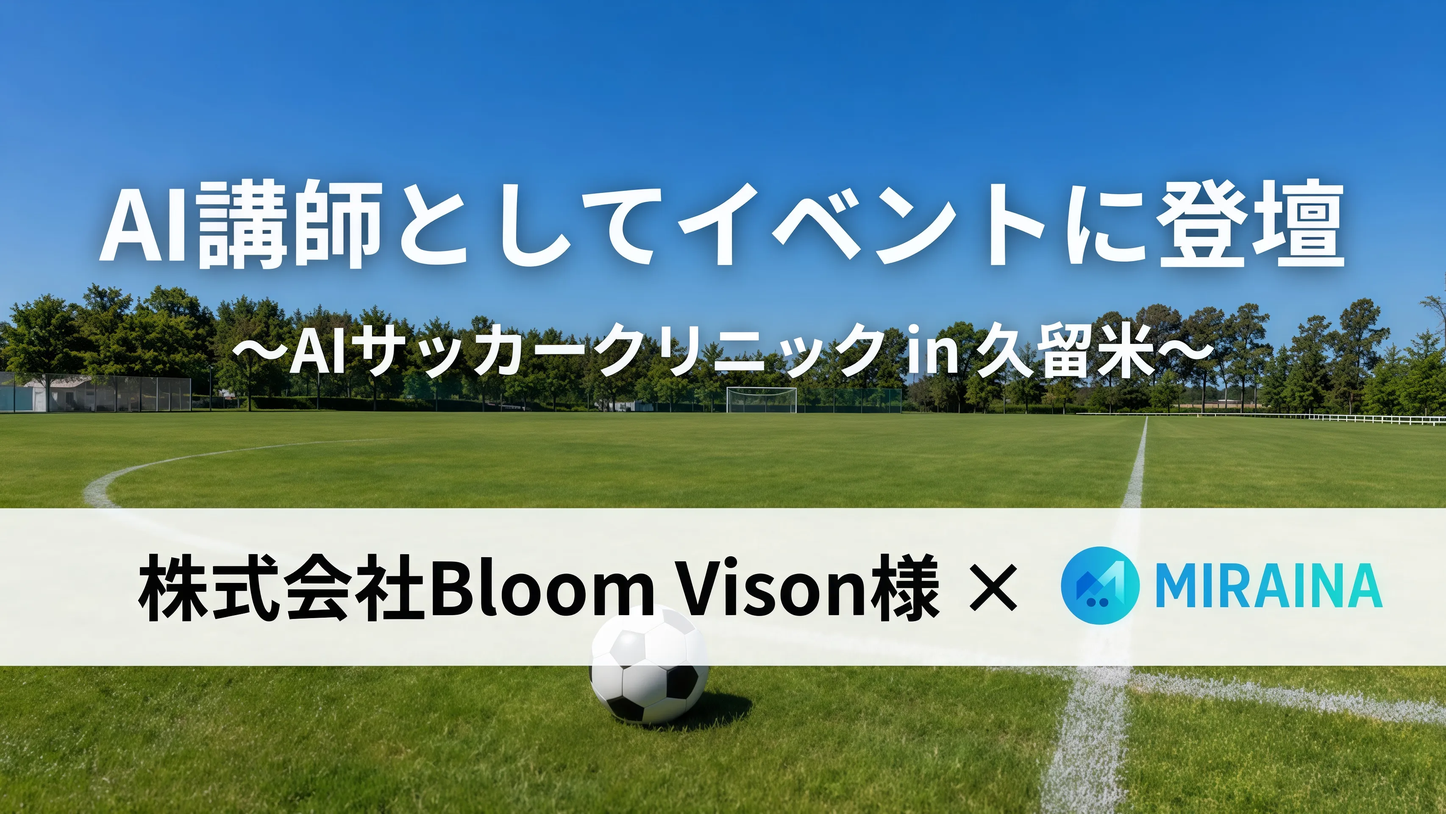
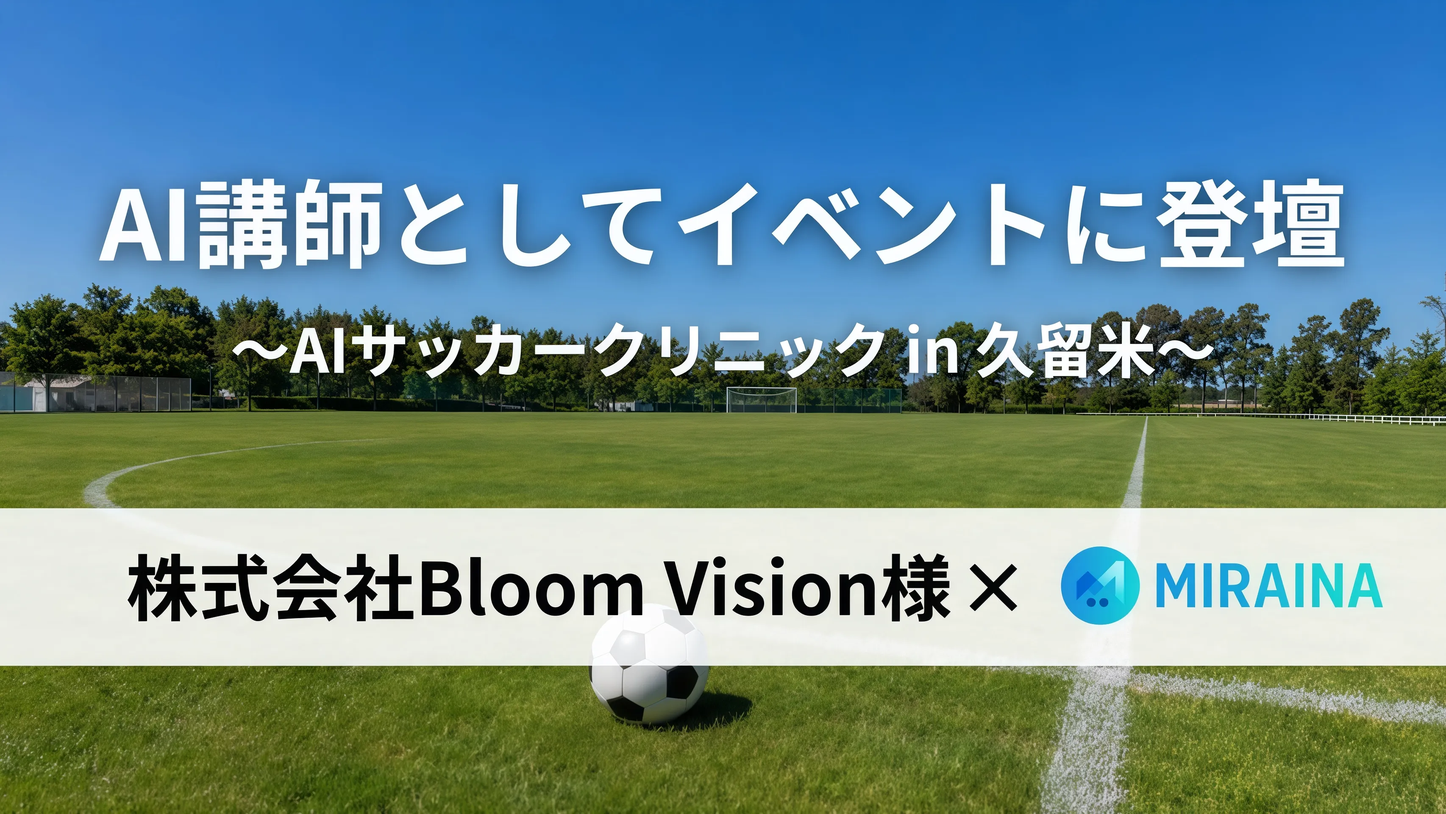
Update work011 sponsor details

Changed region(s): [[0.0932, 0.6562, 0.6524, 0.7812]]

diff --git a/works/work011.html b/works/work011.html
@@ -383,12 +383,13 @@
                             <li><a href="https://bloom-vision.com/news/ai-soccer-clinic-kurume-20260530/" target="_blank"
                                     rel="noopener">AIサッカークリニックin久留米 イベントページ（Bloom Vision）</a></li>
                             <li>特別協賛：<a href="https://www.hakata-trading.com/" target="_blank"
-                                    rel="noopener">博多トレーディング株式会社</a></li>
+                                    rel="noopener">博多トレーディング株式会社</a>様</li>
                             <li>協賛：<a href="https://www.eat-well.co.jp/" target="_blank"
-                                    rel="noopener">株式会社イートウェル</a></li>
+                                    rel="noopener">株式会社イートウェル</a>様</li>
                             <li>協賛：<a href="https://www.koganoyamecha.co.jp/" target="_blank"
-                                    rel="noopener">株式会社こが野（こがの八女茶）</a></li>
-                            <li>協賛：<a href="https://chahana.jp/" target="_blank" rel="noopener">茶花（chahana）</a></li>
+                                    rel="noopener">株式会社こが野（こがの八女茶）</a>様</li>
+                            <li>協賛：<a href="https://chahana.jp/" target="_blank" rel="noopener">茶花（chahana）</a>様</li>
+                            <li>協賛：<a href="https://www.fujipan.co.jp/" target="_blank" rel="noopener">フジパン</a>様</li>
                         </ul>
                     </div>
                 </div>
